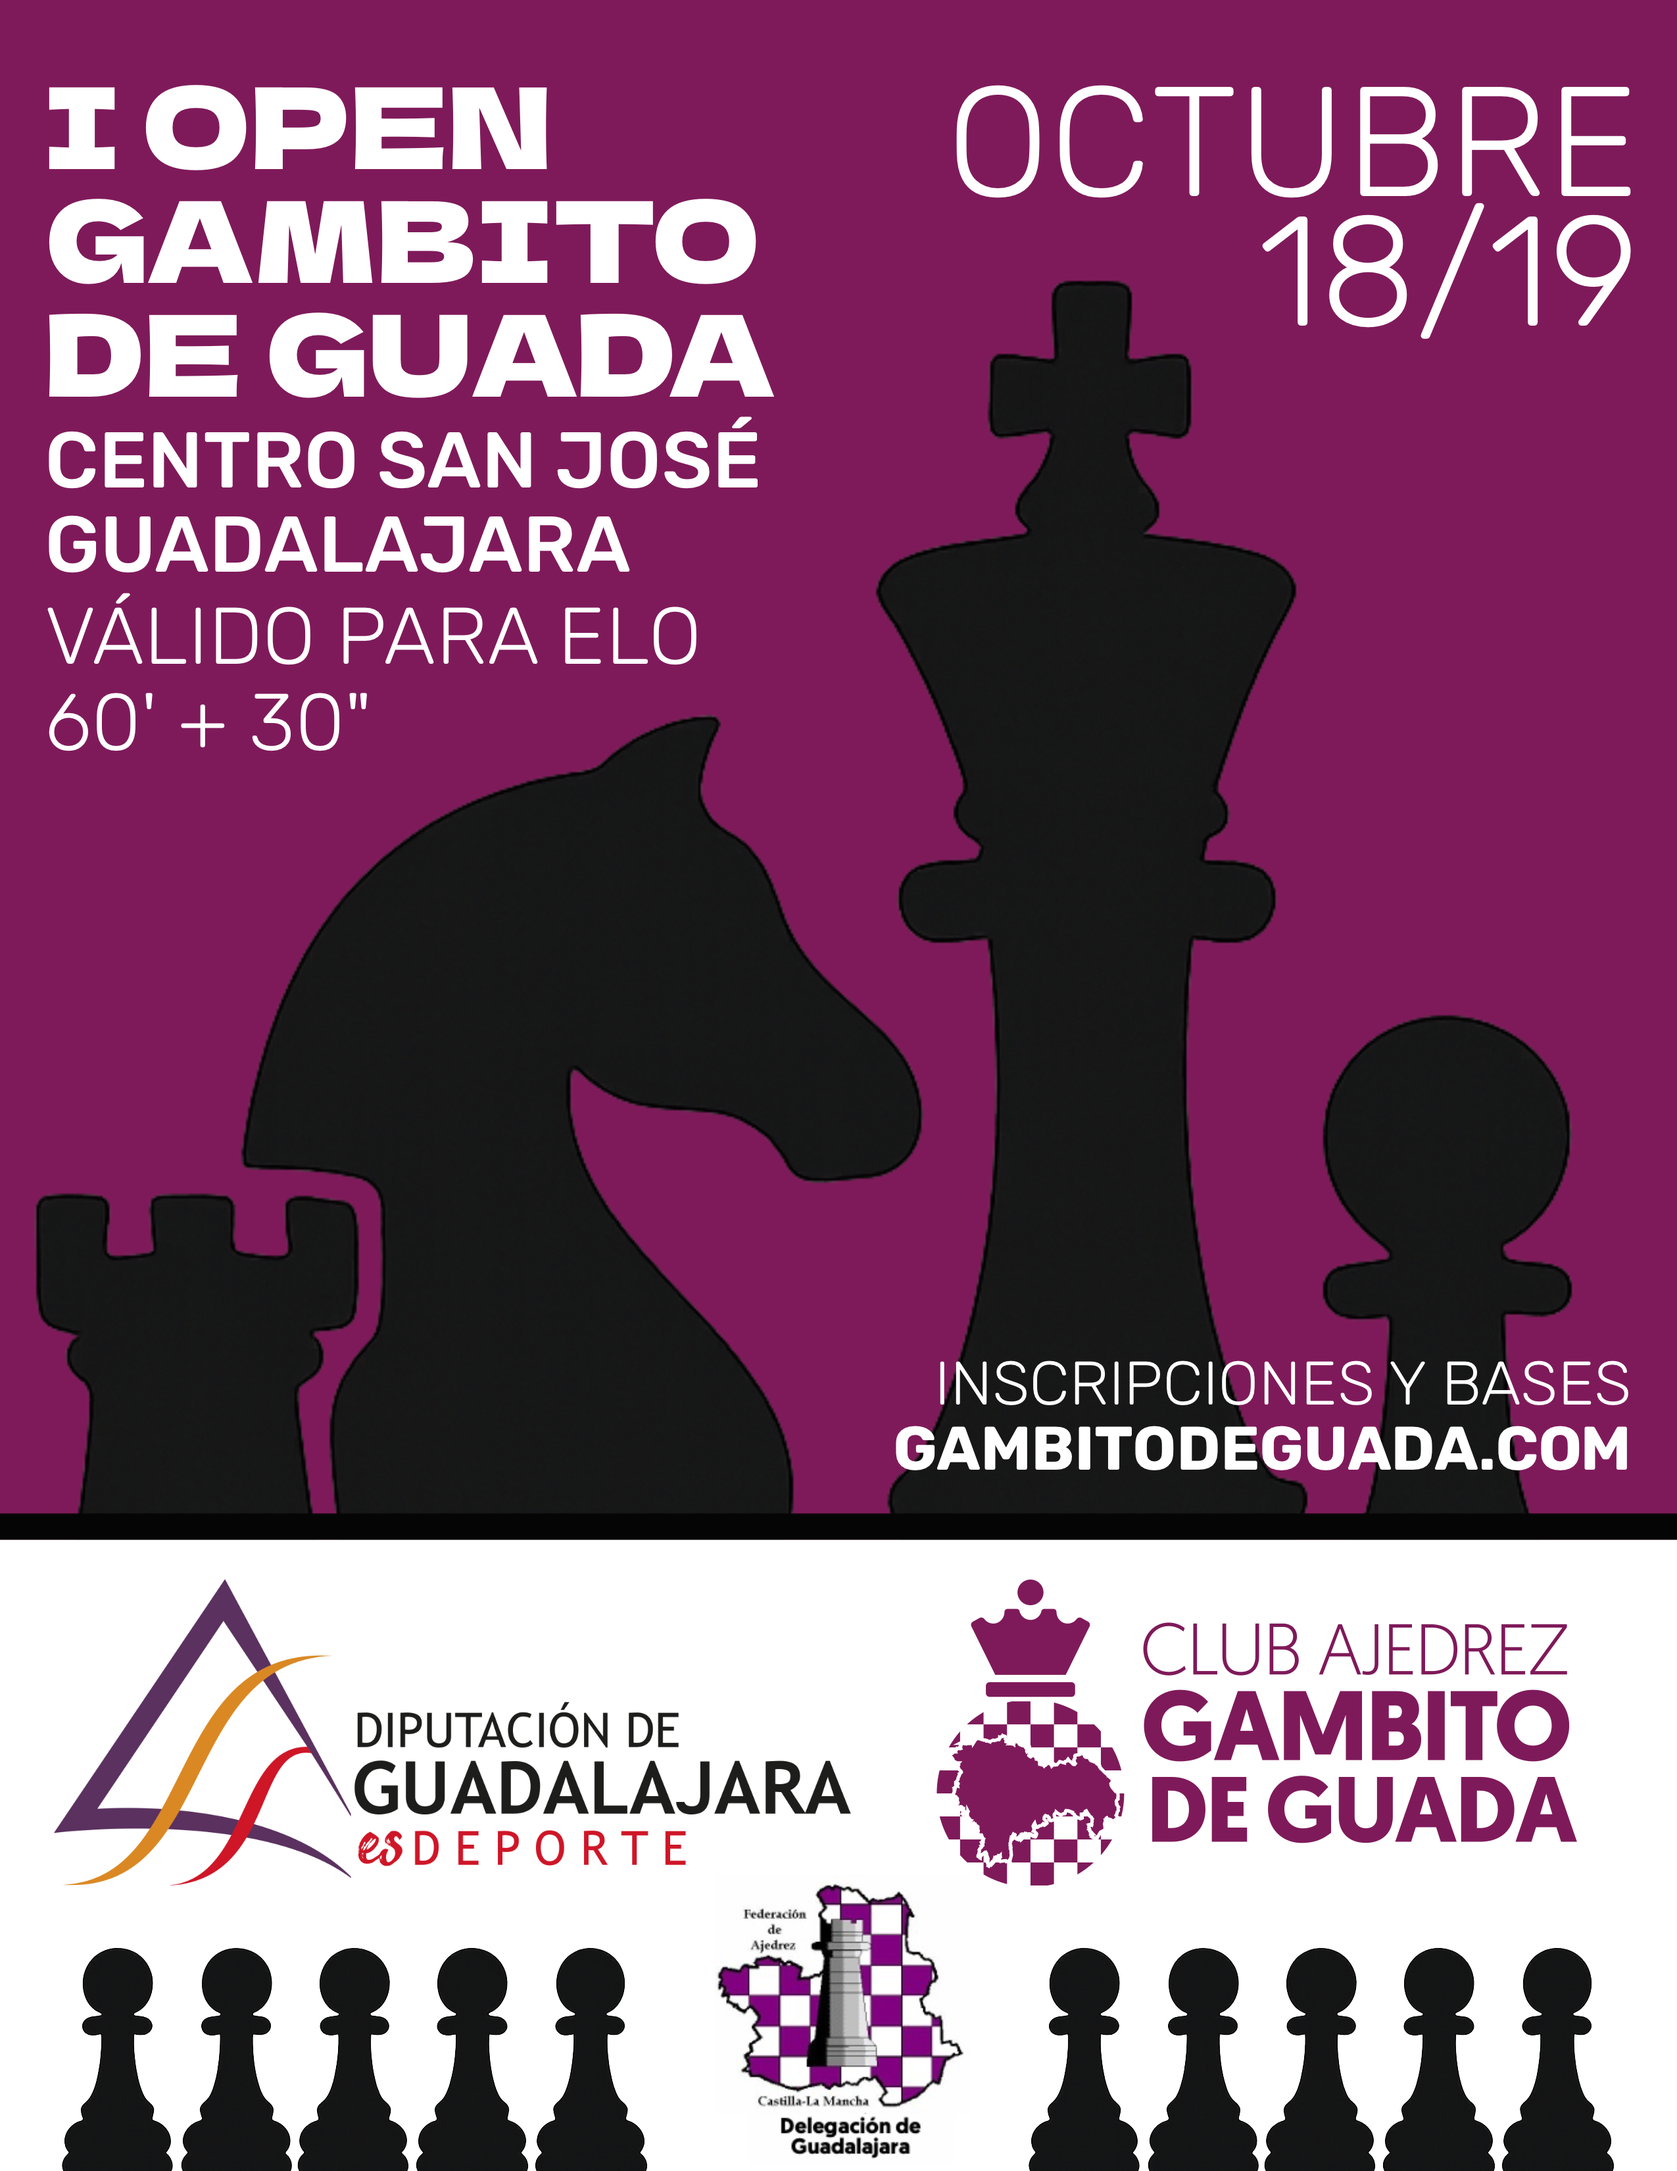
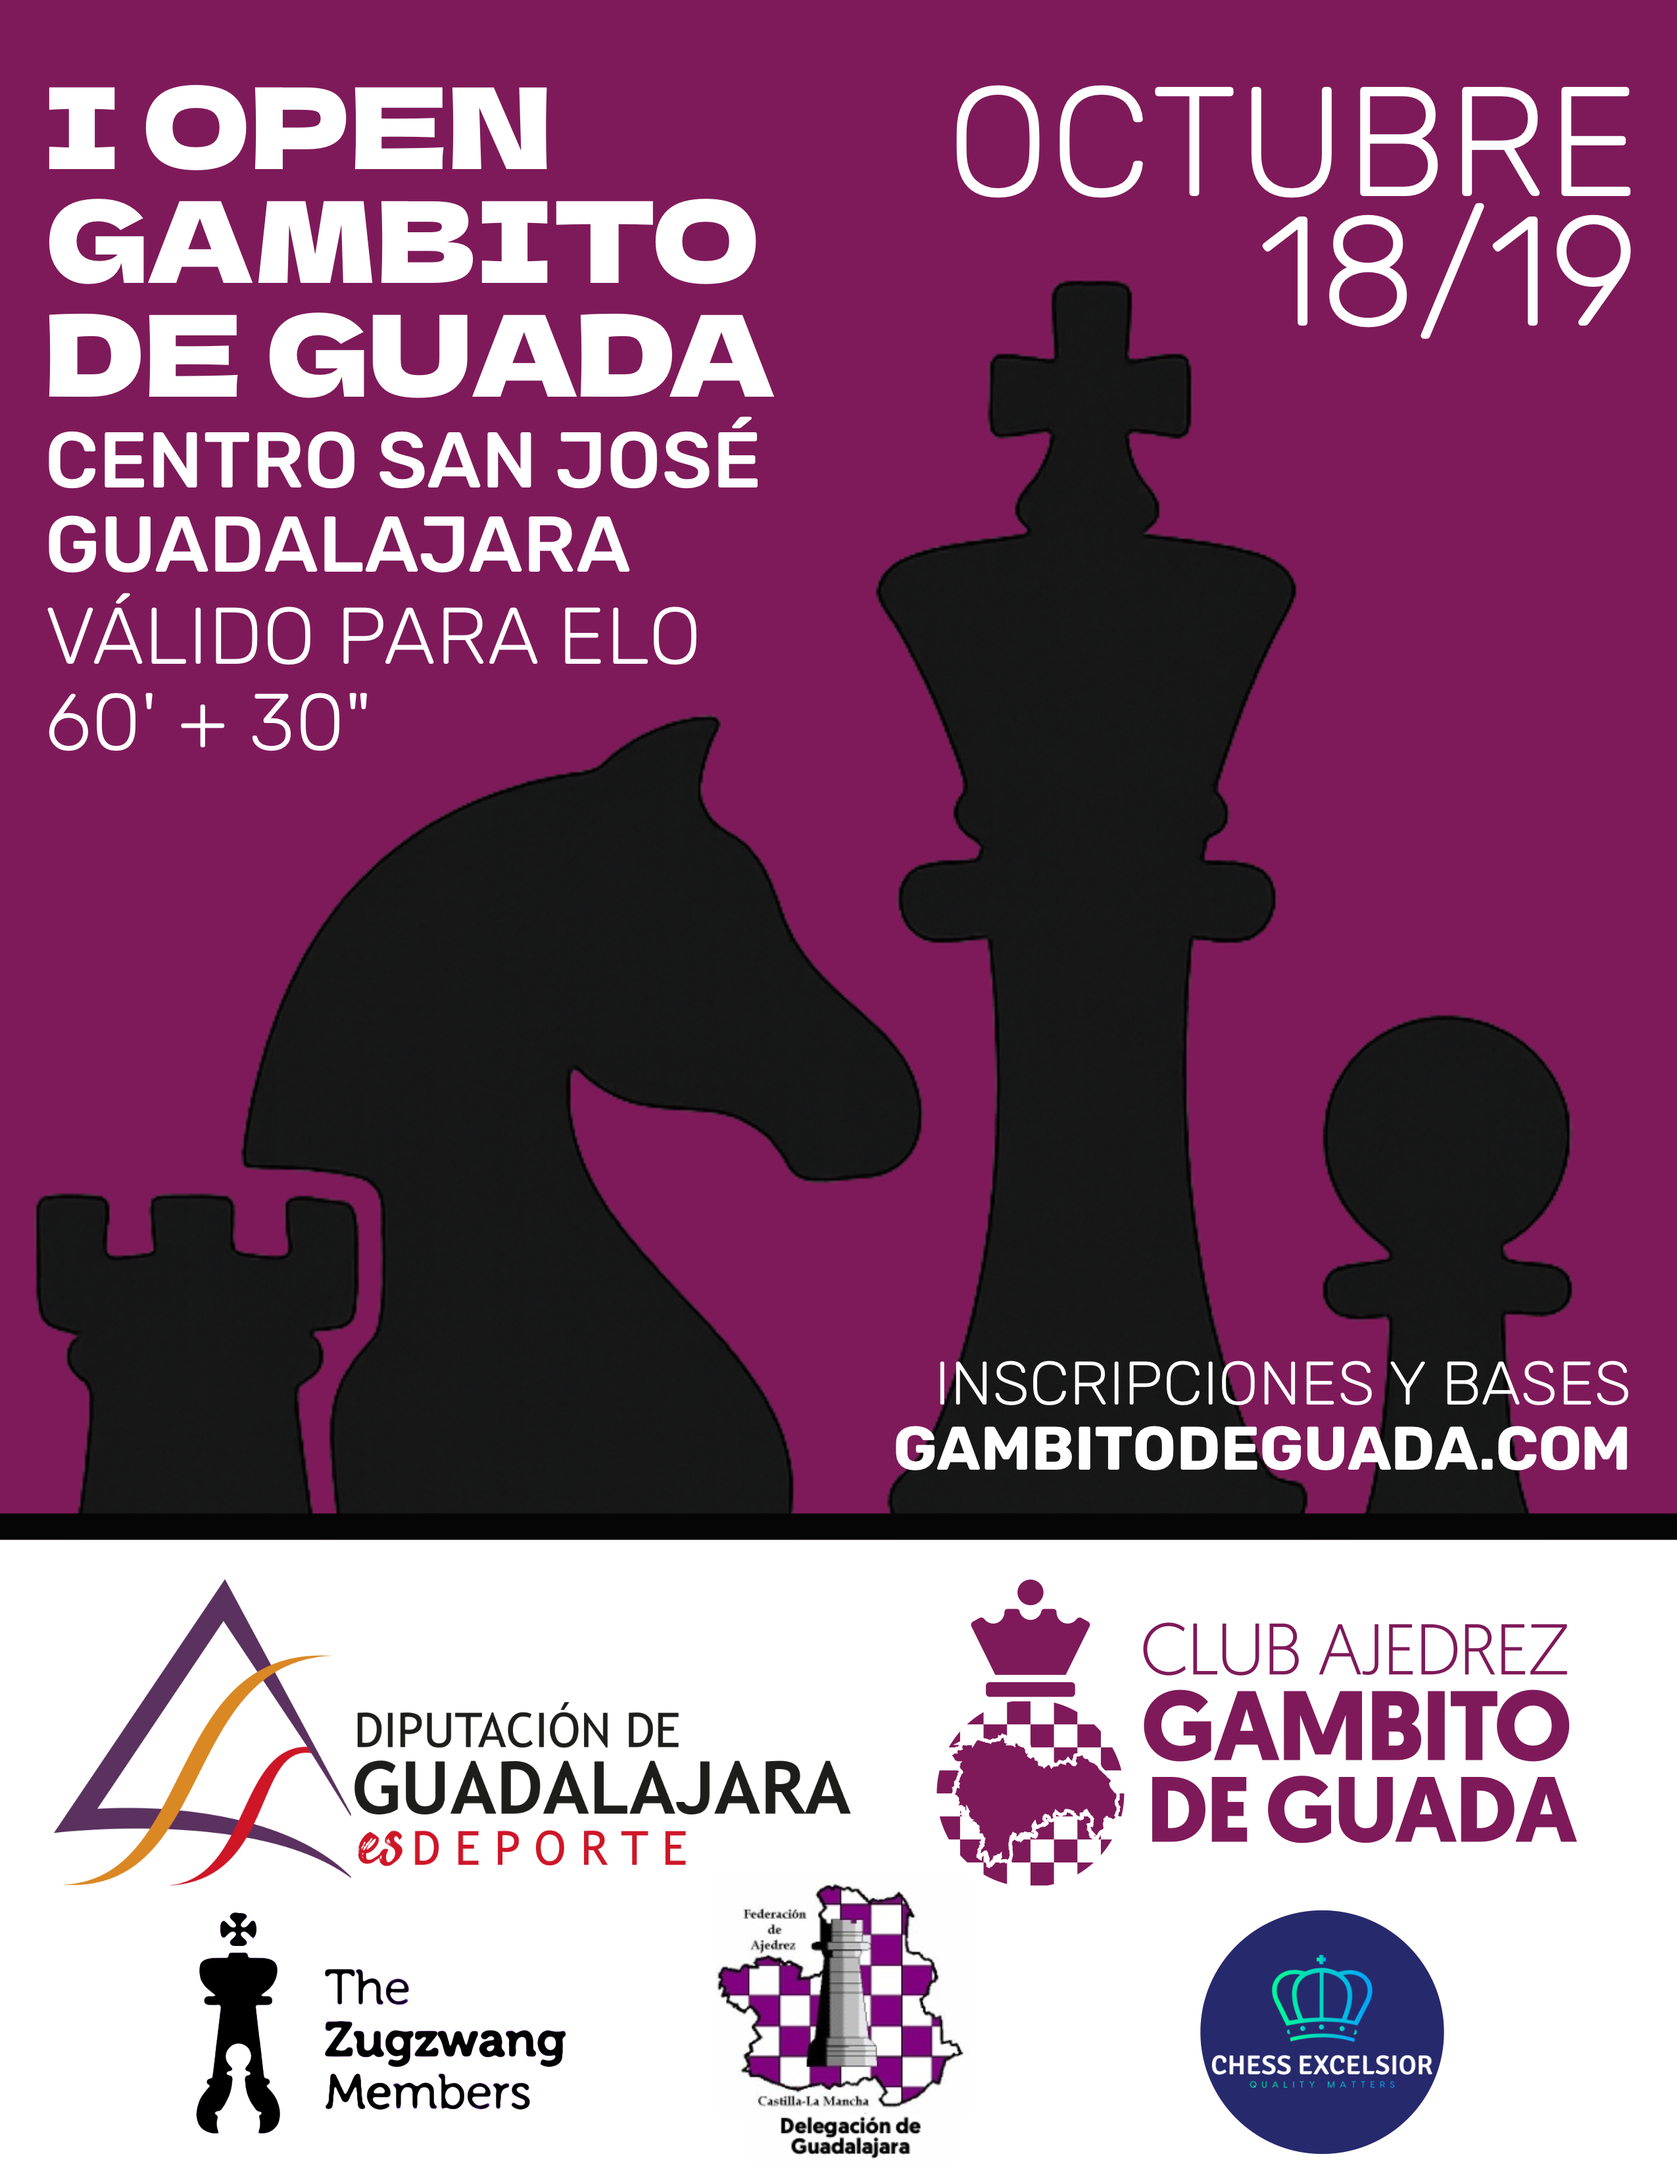
actualizar bases

Changed region(s): [[0.5886, 0.8739, 0.9604, 1.0], [0.031, 0.8739, 0.4027, 1.0]]

diff --git a/torneos/i-open-gambito-de-guada.md b/torneos/i-open-gambito-de-guada.md
@@ -7,7 +7,7 @@ title: I Open Gambito de Guada
 
 Torneo suizo de 5 rondas a 60' + 30" a celebrar el 18 y 19 Octubre. Inscripción 10 €. Para inscribirse rellenar el siguiente [formulario de inscripción](https://docs.google.com/forms/d/101LVfkwzpmWjUNO9iy1vCHlkY8cHZ6sN7AWg0U_SUbQ). Consultar [bases](/torneos/i-open-gambito-de-guada#bases) más abajo.
 
-![](/assets/i-open-gambito-de-guada-800.png) 
+![](/assets/i-open-gambito-de-guada-800.jpg) 
 
 ## Bases
 
@@ -64,10 +64,14 @@ Inscripciones limitadas a 64 participantes en riguroso orden de solicitud de ins
 - 1º : Trofeo y Premio en metálico en función de las inscripciones
 - 2º : Trofeo y Premio en metálico en función de las inscripciones
 - 3º : Trofeo y Premio en metálico en función de las inscripciones
-- 4º : Medalla y Premio en metálico en función de las inscripciones
-
+- 4º : Suscripción de 6 meses en la escuela [The Zugzwang Members](https://thezugzwangmembers.com)
+- 5º : Mensualidad gratis en la academia [Chess Excelsior](https://chessexcelsior.com)
+- 6º : Mensualidad gratis en la academia [Chess Excelsior](https://chessexcelsior.com)
+- 7º : Mensualidad gratis en la academia [Chess Excelsior](https://chessexcelsior.com)
+- 
 #### Socios Club Gambito de Guada
-- 1º : Trofeo
+- 1º : Trofeo + Mensualidad gratis en la academia [Chess Excelsior](https://chessexcelsior.com)
+- 2º : Mensualidad gratis en la academia [Chess Excelsior](https://chessexcelsior.com)
 
 #### Categoría Femenina
 - 1ª : Trofeo
@@ -89,13 +93,12 @@ Inscripciones limitadas a 64 participantes en riguroso orden de solicitud de ins
 - 1º : Medalla
 
 ### Premiación Metálico
-Se destinará el 60% de lo obtenido en la inscripción de jugadores a premiación en metálico. Repartiendo los premios en metálico del siguiente modo: 
+Se destinará el 60% de lo obtenido en la inscripción de jugadores a premiación en metálico. Repartiendo los premios en metálico del siguiente modo:
 - 1er clasificado - 50%
-- 2do clasificado 25%
+- 2do clasificado 35%
 - 3er clasificado 15%
-- 4º clasificado 10%
 
-Por ejemplo, para una recaudación por inscripción de 270 € se destinarán 162 € (el 60%)  a premios en metálico: 81€ para el primer clasificado, 40,50 € para el segundo clasificado y 24,30 € para el tercer clasificado y 16,20 € para el cuarto.
+Por ejemplo, para una recaudación por inscripción de 270 € se destinarán 162 € (el 60%) a premios en metálico: 81€ para el primer clasificado, 56,70 € para el segundo clasificado y 24,30 € para el tercer clasificado.
 
 ### Equipo Arbitral
 
